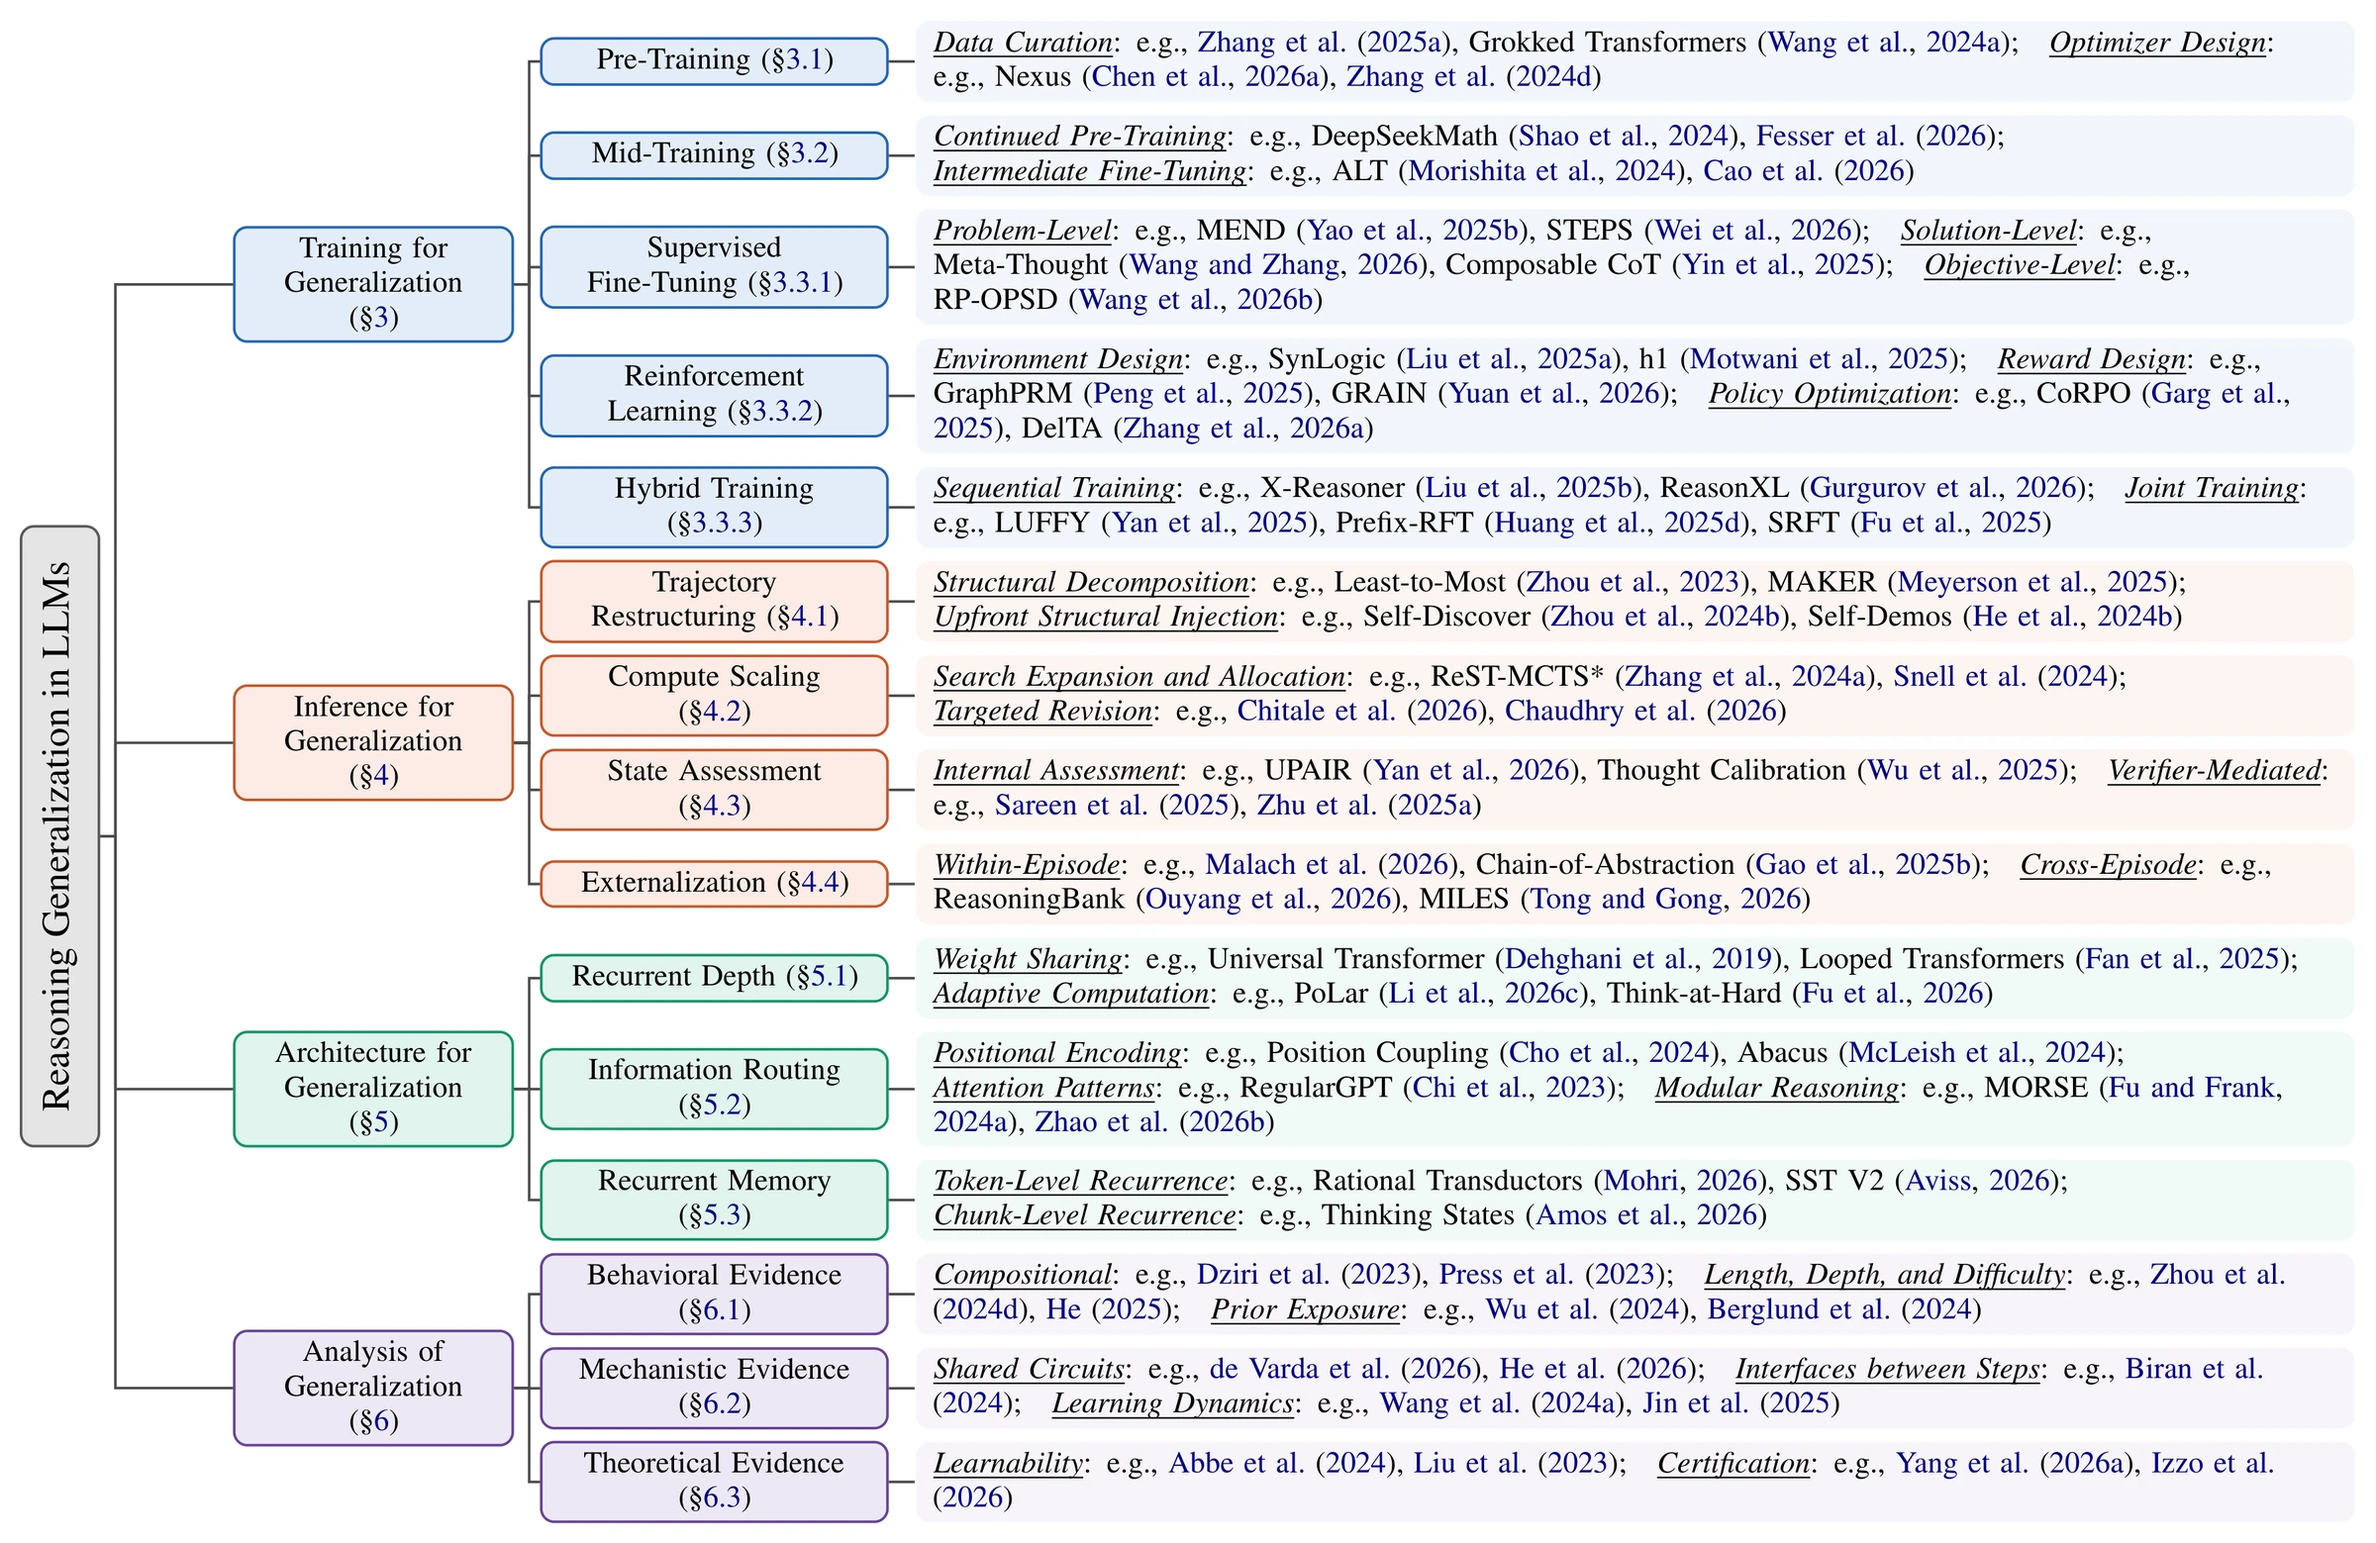
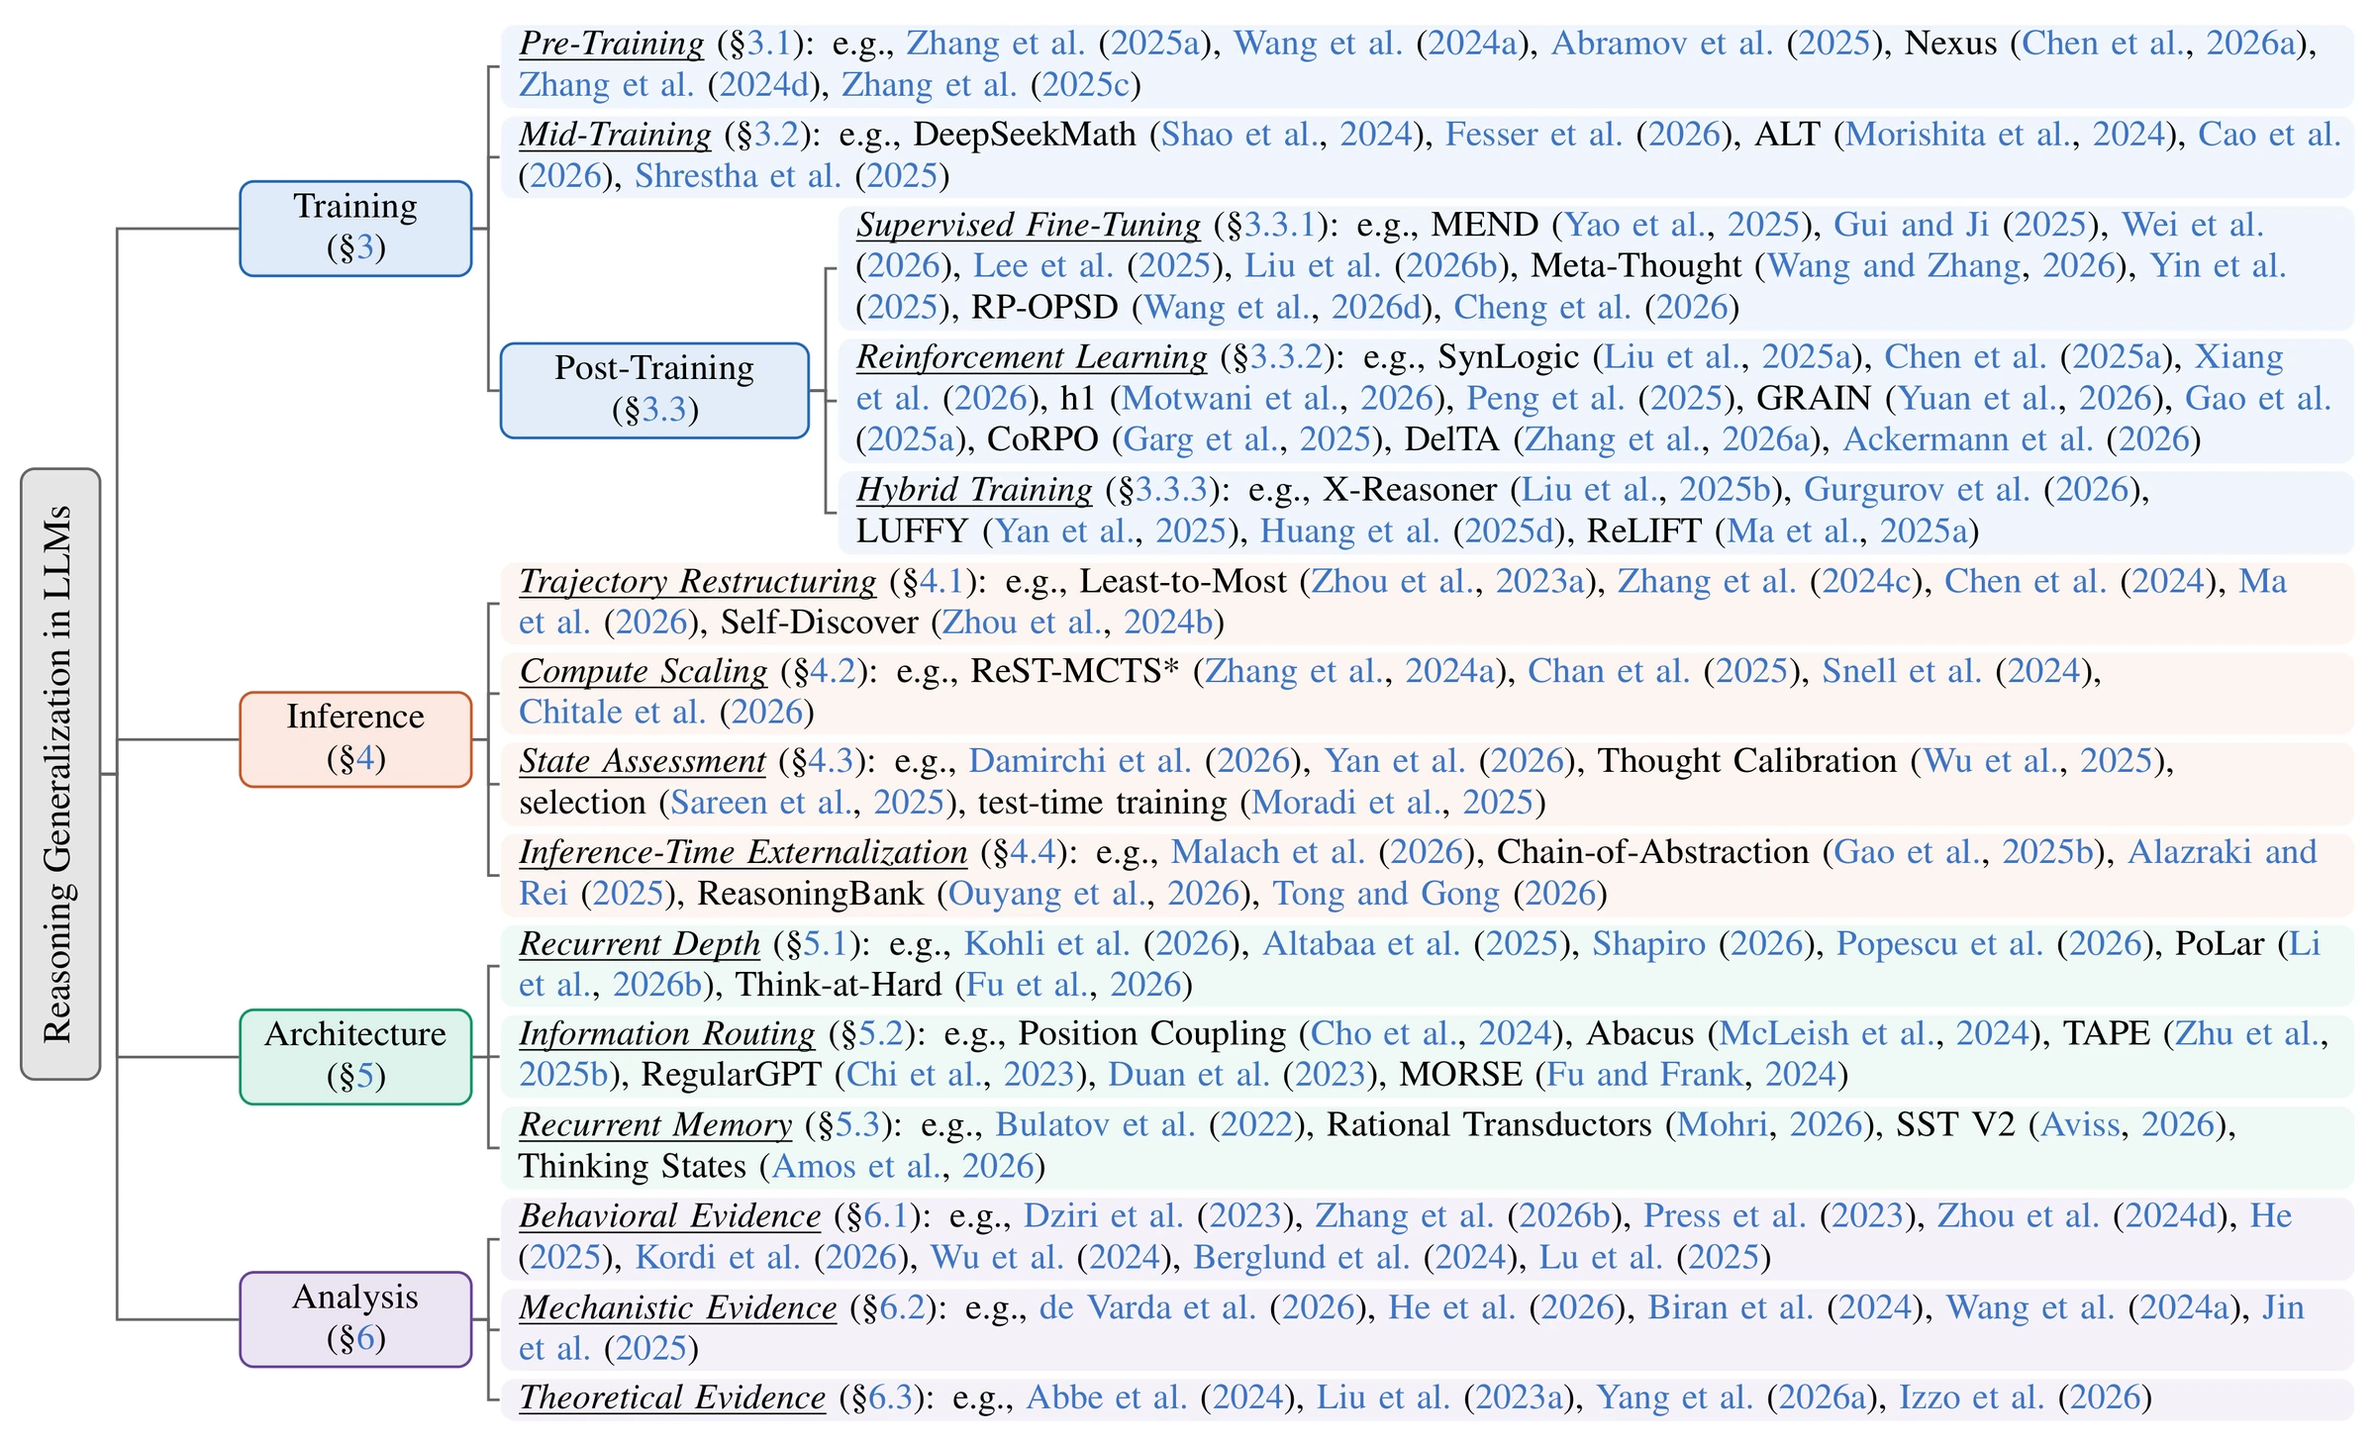
Update the survey figure to the revised taxonomy
Takes the revised Figure 1 from the awesome-reasoning-generalization repo
(assets/main_taxonomy.pdf, exported Oct 13 after the last edit to the
paper's taxonomy.tex). Post-Training now groups SFT, RL and hybrid training,
and each branch lists more representative papers.

Rendered from the vector PDF; full-size copy stays 2400px for the small
citations. URLs move to ?v=3.

Changed region(s): [[0.0625, 0.0, 0.9688, 0.9883], [0.0, 0.3089, 0.0625, 0.7721], [0.9375, 0.0927, 0.9688, 0.1235]]

diff --git a/index.html b/index.html
@@ -430,8 +430,8 @@
 
               <ol class="pubs" id="preprintList">
                 <li class="pub">
-                  <a class="pub-fig" href="assets/papers/survey-full.webp?v=2" target="_blank" rel="noopener" aria-label="Open the full-size figure">
-                    <img src="assets/papers/survey.webp?v=2" alt="Taxonomy of reasoning generalization in LLMs: four branches (training, inference, architecture, analysis), each split into subtopics with representative papers" loading="lazy" decoding="async" />
+                  <a class="pub-fig" href="assets/papers/survey-full.webp?v=3" target="_blank" rel="noopener" aria-label="Open the full-size figure">
+                    <img src="assets/papers/survey.webp?v=3" alt="Taxonomy of reasoning generalization in LLMs: four branches (training, inference, architecture, analysis), each split into subtopics with representative papers" loading="lazy" decoding="async" />
                   </a>
                   <div class="pub-body">
                     <h3 class="pub-title">
